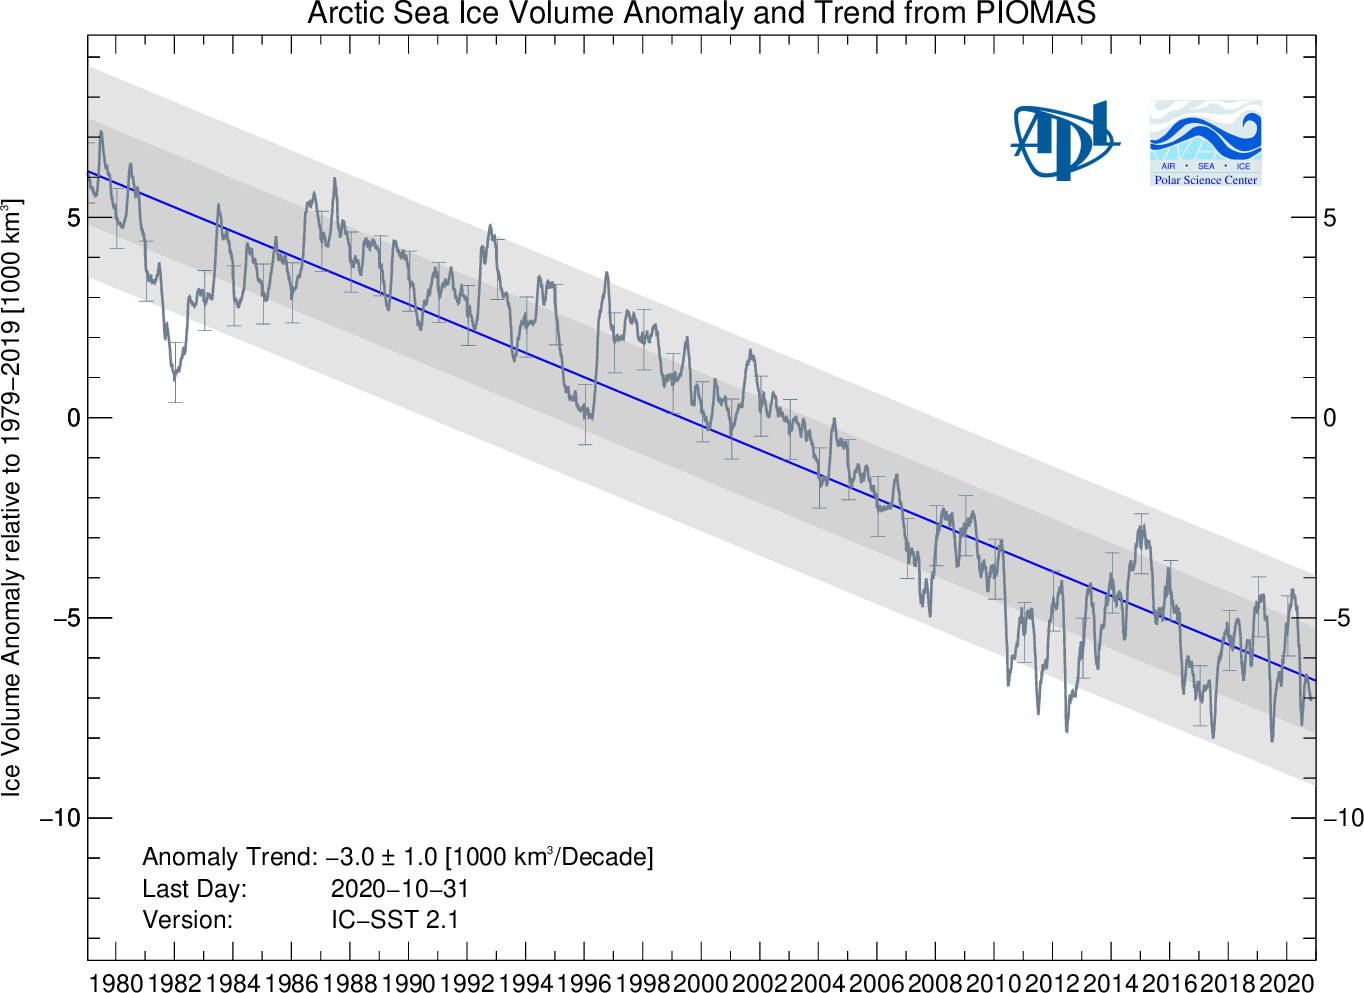
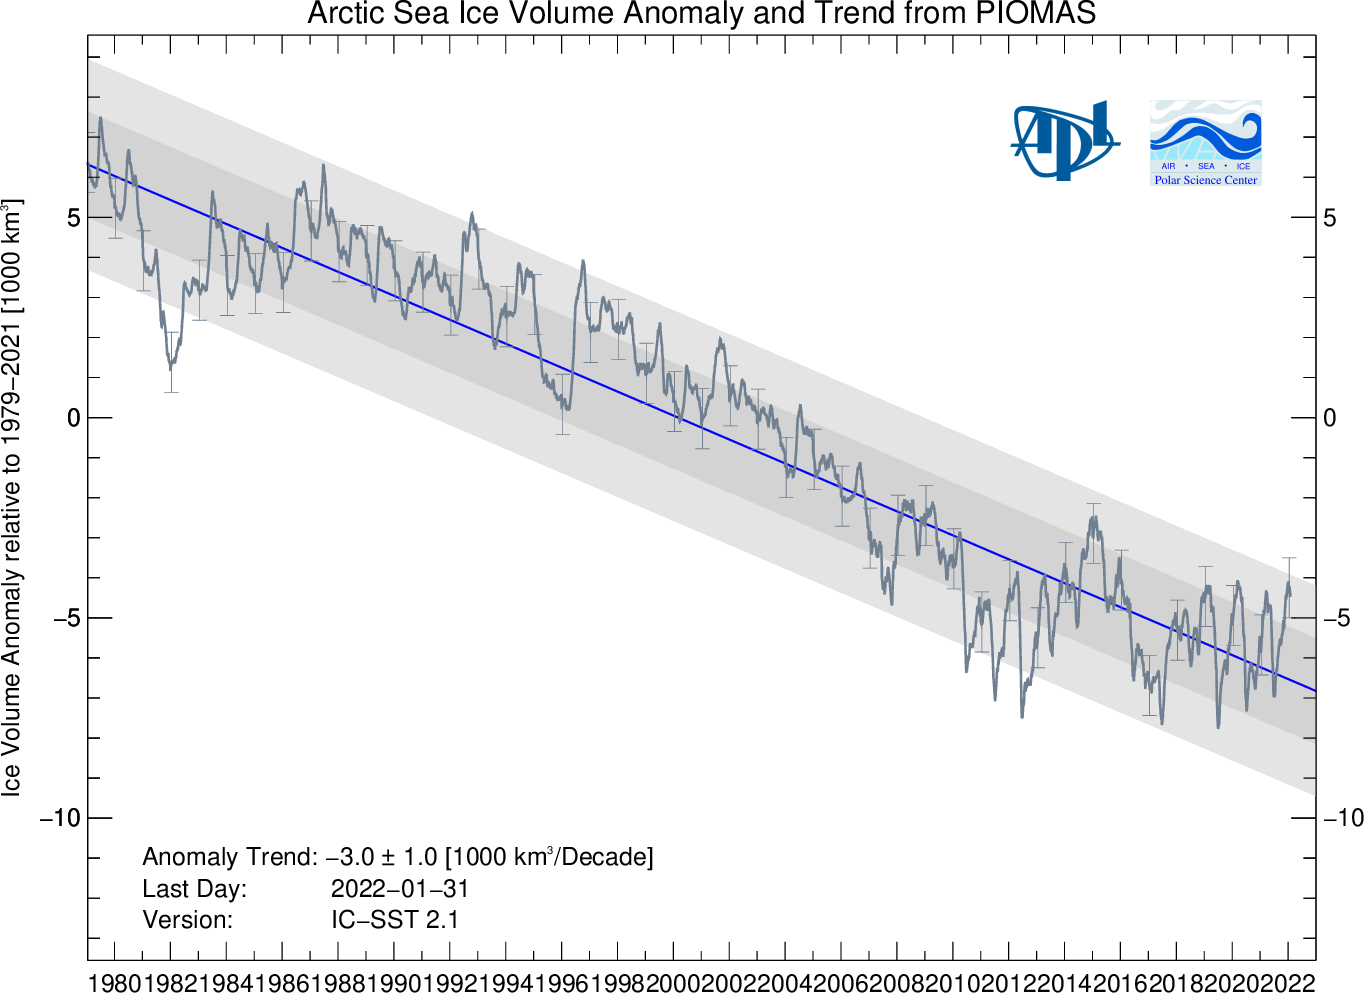
Update PIOMAS sea ice volume

diff --git a/data/water/PIOMAS_sea_ice_volume/README.md b/data/water/PIOMAS_sea_ice_volume/README.md
@@ -2,16 +2,16 @@
 # PIOMAS Arctic Sea Ice Volume Loss
 
 ## Description
-This dataset gives the decadal Arctic sea ice volume trend as calculated from 1979-October 2020.
+This dataset gives the decadal Arctic sea ice volume trend as calculated from 1979-January 2022.
 
 ## Key Numbers
-Arctic Sea Ice Volume Trend (1979-2020): 3.0 x 10<sup>3</sup> km<sup>3</sup> / decade (-3 x 10<sup>11</sup> m<sup>3</sup> / yr)
+Arctic Sea Ice Volume Trend (1979-2022): -3.0 x 10<sup>3</sup> km<sup>3</sup> / decade (-3 x 10<sup>11</sup> m<sup>3</sup> / yr)
 
 ## Source Information
 * **Source Website**: PIOMAS Arctic Sea Ice Volume Reanalysis
 * **URL**: http://psc.apl.uw.edu/research/projects/arctic-sea-ice-volume-anomaly/
 * **Original License**: No license is noted. The following citation is suggested: Schweiger, A., R. Lindsay, J. Zhang, M. Steele, H. Stern, Uncertainty in modeled arctic sea ice volume, J. Geophys. Res., doi:10.1029/2011JC007084, 2011
-* **Bias**: These data are collected by the Polar Science Center at the University of Washington and were originally reported in a scientific publication with regular updates on a hosted webpage. No bias is readily apparent.
+* **Bias**: These data are collected by the Polar Science Center at the University of Washington and were originally reported in a scientific publication with regular updates on a hosted webpage.
 
 ## Notes
-The decadal anomaly trend from 1979-October 2020 is given in Figure 1 of the webpage as -3.0 [1000 km<sup>3</sup> / decade]. Uncertainty is based on the uncertainty in the local thickness measurements and refers to the range in trends from three ice volume determination methods.
+The decadal anomaly trend from 1979-January 2022 is given in Figure 1 of the webpage as -3.0 x 10<sup>3</sup> km<sup>3</sup> / decade and is converted to the yearly trend in the processed dataset. Uncertainty is based on the uncertainty in the local thickness measurements and refers to the range in trends from three ice volume determination methods.
